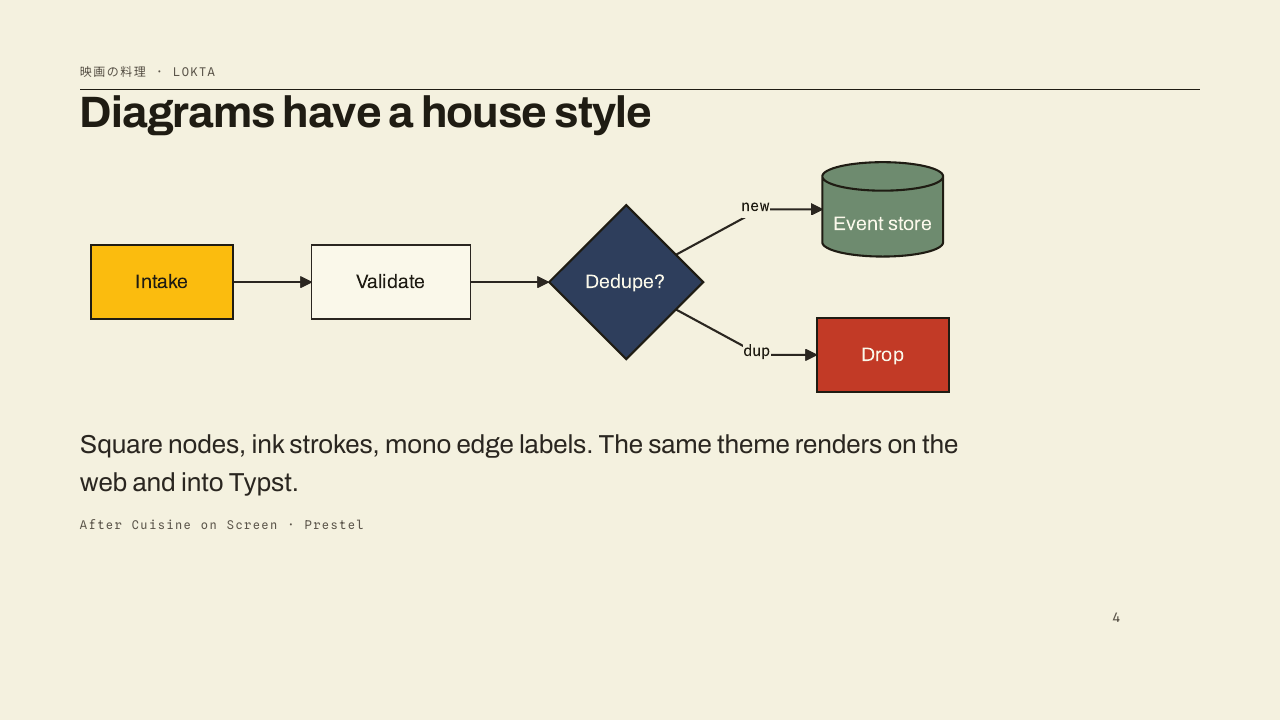
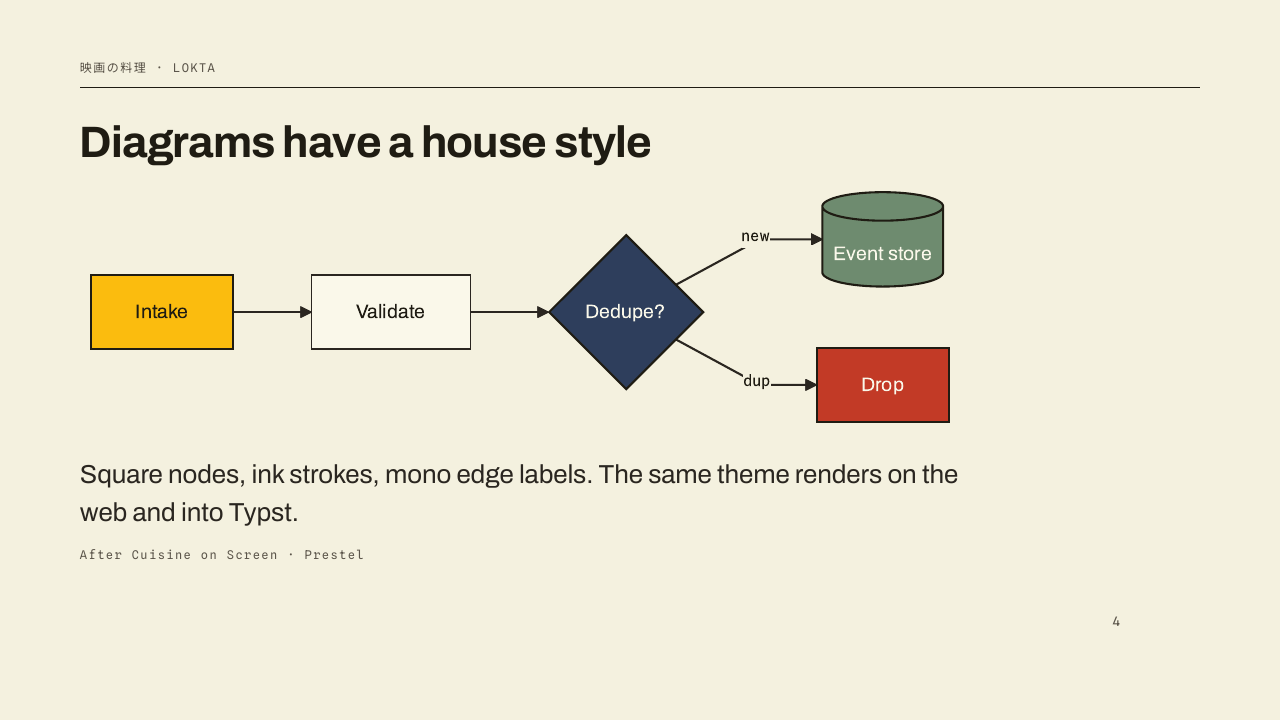
Marp theme: all four stocks, full pigment grounds, font dials, title spacing
Sync the workspace Marp theme with lokta-marp: paper/ink/bone/indigo
stocks and the marigold/peach/lavender/aubergine/cinnabar/celadon/night
grounds as slide classes, overridable font and colour variables, and a
clear gap between the running head and the slide title.

diff --git a/packages/marp-theme/lokta.marp.css b/packages/marp-theme/lokta.marp.css
@@ -1,12 +1,21 @@
 /* @theme lokta
- * Lokta. Paper on Screen. A Marp theme drawn from the Lokta design system.
- * Light (default), .invert (Ink dark stock), .marigold and .peach feature grounds.
- * Usage in a deck:  ---  marp: true  theme: lokta  ---
+ * Lokta. A Marp theme drawn from the Lokta design system.
+ *
+ * Per-slide classes (`<!-- _class: NAME -->` or `class:` in front matter):
+ *   Stocks:   (default = paper) · invert / ink · bone · indigo
+ *   Grounds:  marigold · peach · lavender · aubergine · cinnabar · celadon · night
+ *   Layout:   lead (cover slide)
+ *
+ * Dials (override with the `style:` directive):
+ *   Fonts:  --display · --mono · --serif
+ *   Colors: --paper-00..04 · --ink-40..100 · --marigold · --peach · --lavender
+ *           --aubergine · --cinnabar · --celadon · --indigo · --night
  *
  * Fonts are self-hosted (SIL OFL): no Google Fonts CDN, which would send viewer
  * IPs to Google (a GDPR exposure in the EU). The woff2 files live in ./fonts and
  * resolve relative to the rendered HTML, so render with the fonts alongside the
- * output (the repo's build does this). Run `npm run fonts` to vendor them.
+ * output (the repo's build does this). For a standalone, engine-embedded version
+ * see github.com/msradam/lokta-marp.
  */
 @font-face { font-family: "Archivo"; font-weight: 400; font-display: swap; src: url("fonts/archivo-latin-400-normal.woff2") format("woff2"); }
 @font-face { font-family: "Archivo"; font-weight: 500; font-display: swap; src: url("fonts/archivo-latin-500-normal.woff2") format("woff2"); }
@@ -17,19 +26,23 @@
 @font-face { font-family: "Spline Sans Mono"; font-weight: 600; font-display: swap; src: url("fonts/spline-sans-mono-latin-600-normal.woff2") format("woff2"); }
 @font-face { font-family: "Source Serif 4"; font-style: italic; font-weight: 400; font-display: swap; src: url("fonts/source-serif-4-latin-400-italic.woff2") format("woff2"); }
 @font-face { font-family: "Source Serif 4"; font-style: italic; font-weight: 500; font-display: swap; src: url("fonts/source-serif-4-latin-500-italic.woff2") format("woff2"); }
-@font-face { font-family: "Noto Sans JP"; font-weight: 700; font-display: swap; src: url("fonts/noto-sans-jp-japanese-400-normal.woff2") format("woff2"); }
+@font-face { font-family: "Noto Sans JP"; font-weight: 400; font-display: swap; src: url("fonts/noto-sans-jp-japanese-400-normal.woff2") format("woff2"); }
 
 :root {
   --paper-00: #FAF8EA; --paper-01: #F4F1DF; --paper-02: #EAE6D2; --paper-04: #C2B89C;
+  --bone: #EFEEE7;
   --ink-100: #16140E; --ink-90: #1F1C13; --ink-80: #2A2620; --ink-60: #5C564B; --ink-50: #6E665A; --ink-40: #8E867A;
-  --marigold: #FBBC0E; --peach: #E7A079; --cinnabar: #C23A26; --celadon-ink: #4F6B50; --aubergine: #6B4E8E; --night: #070D0E;
-  --mono: "Spline Sans Mono", ui-monospace, monospace;
+  --marigold: #FBBC0E; --peach: #E7A079; --lavender: #A99CB3; --aubergine: #6B4E8E;
+  --cinnabar: #C23A26; --celadon: #6E8B6F; --indigo: #2E3E5C; --night: #070D0E;
+  --indigo-page: #1B2230; --indigo-text: #E2E1D6; --indigo-head: #EDECE3; --indigo-mut: #AEB4C2;
+  --mono: "Spline Sans Mono", "Noto Sans JP", ui-monospace, monospace;
   --display: "Archivo", "Helvetica Neue", "Noto Sans JP", sans-serif;
+  --serif: "Source Serif 4", Georgia, serif;
 }
 
 section {
   width: 1280px; height: 720px;
-  padding: 64px 80px;
+  padding: 60px 80px;
   background: var(--paper-01);
   color: var(--ink-80);
   font-family: var(--display);
@@ -44,7 +57,7 @@ h2 { font-size: 44px; font-weight: 700; letter-spacing: -0.02em; line-height: 1.
 h3 { font-size: 24px; font-weight: 700; color: var(--ink-90); margin: 0 0 8px; }
 p  { text-wrap: pretty; margin: 0 0 14px; max-width: 60ch; }
 strong { font-weight: 700; color: var(--ink-90); }
-em { font-family: "Source Serif 4", Georgia, serif; }
+em { font-family: var(--serif); }
 a { color: var(--aubergine); text-decoration: underline; text-underline-offset: 3px; }
 ul, ol { max-width: 60ch; }
 li { margin: 0 0 8px; }
@@ -52,13 +65,13 @@ li::marker { color: var(--ink-40); }
 code { font-family: var(--mono); font-size: 0.86em; background: var(--paper-02); border: 1px solid var(--paper-04); padding: 1px 5px; }
 pre { background: var(--ink-90); color: var(--paper-00); padding: 20px 22px; font-family: var(--mono); font-size: 18px; line-height: 1.6; }
 pre code { background: none; border: none; color: inherit; padding: 0; }
-blockquote { font-family: "Source Serif 4", Georgia, serif; font-style: italic; font-size: 30px; line-height: 1.35; color: var(--ink-90); border-left: 2px solid var(--marigold); padding-left: 20px; margin: 0 0 16px; }
+blockquote { font-family: var(--serif); font-style: italic; font-size: 30px; line-height: 1.35; color: var(--ink-90); border-left: 2px solid var(--marigold); padding-left: 20px; margin: 0 0 16px; }
 table { border-collapse: collapse; font-size: 20px; }
 th { font-family: var(--mono); font-size: 12px; text-transform: uppercase; letter-spacing: 0.1em; color: var(--ink-60); text-align: left; border-bottom: 2px solid var(--ink-90); padding: 8px 14px; }
 td { border-bottom: 1px solid var(--paper-04); padding: 8px 14px; }
 
 /* Running head + colophon (Marp header/footer) */
-header { font-family: var(--mono); font-size: 12px; text-transform: uppercase; letter-spacing: 0.12em; color: var(--ink-60); top: 28px; left: 80px; right: 80px; border-bottom: 1px solid var(--ink-90); padding-bottom: 8px; }
+header { font-family: var(--mono); font-size: 12px; text-transform: uppercase; letter-spacing: 0.12em; color: var(--ink-60); left: 80px; right: 80px; border-bottom: 1px solid var(--ink-90); padding-bottom: 10px; margin-bottom: 32px; }
 footer { font-family: var(--mono); font-size: 12px; letter-spacing: 0.12em; color: var(--ink-60); bottom: 28px; left: 80px; }
 section::after { /* page number, bottom-right */ font-family: var(--mono); font-size: 13px; color: var(--ink-60); right: 80px; bottom: 28px; }
 
@@ -72,30 +85,71 @@ hr { border: 0; height: 8px; margin: 18px 0; background-image: repeating-linear-
 section.lead { display: flex; flex-direction: column; justify-content: center; }
 section.lead h1 { font-size: 104px; letter-spacing: -0.045em; }
 
-/* INK dark stock */
-section.invert { background: var(--ink-90); color: var(--paper-01); }
-section.invert h1, section.invert h2, section.invert h3, section.invert strong { color: var(--paper-00); }
-section.invert header, section.invert footer, section.invert::after { color: var(--paper-04); border-color: var(--paper-04); }
-section.invert code { background: var(--ink-100); border-color: var(--ink-60); color: var(--paper-00); }
-section.invert a { color: #A98FC9; }
-section.invert hr { background-image: repeating-linear-gradient(-45deg, var(--paper-04) 0, var(--paper-04) 1px, transparent 1px, transparent 4px); }
+/* ════ STOCKS ═══════════════════════════════════════════════════════════════
+ * Four stocks re-point the whole slide. paper is the default. */
 
-/* MARIGOLD feature ground (always dark text) */
-section.marigold { background: var(--marigold); color: var(--ink-90); }
-section.marigold h1, section.marigold h2, section.marigold h3, section.marigold strong { color: var(--ink-90); }
-section.marigold header, section.marigold footer, section.marigold::after { color: rgba(7,13,14,0.7); border-color: rgba(7,13,14,0.4); }
+/* BONE (cool light stock) */
+section.bone { background: var(--bone); }
 
-/* PEACH heritage ground */
-section.peach { background: var(--peach); color: var(--ink-90); }
-section.peach h1, section.peach h2, section.peach strong { color: var(--ink-90); }
+/* ── Dark grounds: light text. Stocks (ink, indigo) and dark pigment grounds. */
+section.invert, section.ink, section.indigo,
+section.aubergine, section.cinnabar, section.celadon, section.night {
+  color: var(--paper-01);
+}
+section.invert h1, section.invert h2, section.invert h3, section.invert strong,
+section.ink h1, section.ink h2, section.ink h3, section.ink strong,
+section.indigo h1, section.indigo h2, section.indigo h3, section.indigo strong,
+section.aubergine h1, section.aubergine h2, section.aubergine h3, section.aubergine strong,
+section.cinnabar h1, section.cinnabar h2, section.cinnabar h3, section.cinnabar strong,
+section.celadon h1, section.celadon h2, section.celadon h3, section.celadon strong,
+section.night h1, section.night h2, section.night h3, section.night strong { color: var(--paper-00); }
+section.invert header, section.invert footer, section.invert::after,
+section.ink header, section.ink footer, section.ink::after,
+section.indigo header, section.indigo footer, section.indigo::after,
+section.aubergine header, section.aubergine footer, section.aubergine::after,
+section.cinnabar header, section.cinnabar footer, section.cinnabar::after,
+section.celadon header, section.celadon footer, section.celadon::after,
+section.night header, section.night footer, section.night::after { color: var(--paper-04); border-color: var(--paper-04); }
+section.invert code, section.ink code, section.indigo code, section.aubergine code,
+section.cinnabar code, section.celadon code, section.night code { background: rgba(0,0,0,0.28); border-color: rgba(255,255,255,0.3); color: var(--paper-00); }
+section.invert a, section.ink a, section.indigo a, section.aubergine a,
+section.cinnabar a, section.celadon a, section.night a { color: #C9B8DC; }
+section.invert hr, section.ink hr, section.indigo hr, section.aubergine hr,
+section.cinnabar hr, section.celadon hr, section.night hr {
+  background-image: repeating-linear-gradient(-45deg, var(--paper-04) 0, var(--paper-04) 1px, transparent 1px, transparent 4px); }
+
+/* INK (warm dark stock) */
+section.invert, section.ink { background: var(--ink-90); }
+section.invert code, section.ink code { background: var(--ink-100); border-color: var(--ink-60); }
+/* INDIGO (cool dark stock) */
+section.indigo { background: var(--indigo-page); color: var(--indigo-text); }
+section.indigo h1, section.indigo h2, section.indigo h3, section.indigo strong { color: var(--indigo-head); }
+
+/* ════ PIGMENT GROUNDS (full-bleed feature slides) ══════════════════════════ */
+
+/* Dark-text grounds */
+section.marigold { background: var(--marigold); }
+section.peach { background: var(--peach); }
+section.lavender { background: var(--lavender); }
+section.marigold, section.peach, section.lavender { color: var(--ink-90); }
+section.marigold h1, section.marigold h2, section.marigold h3, section.marigold strong,
+section.peach h1, section.peach h2, section.peach h3, section.peach strong,
+section.lavender h1, section.lavender h2, section.lavender h3, section.lavender strong { color: var(--ink-90); }
+section.marigold header, section.marigold footer, section.marigold::after,
+section.peach header, section.peach footer, section.peach::after,
+section.lavender header, section.lavender footer, section.lavender::after { color: rgba(7,13,14,0.7); border-color: rgba(7,13,14,0.4); }
+
+/* Light-text grounds (backgrounds set here; text handled by the dark-grounds rule above) */
+section.aubergine { background: var(--aubergine); }
+section.cinnabar { background: var(--cinnabar); }
+section.celadon { background: var(--celadon); }
+section.night { background: var(--night); }
 
 /* ── MERMAID (opinionated Lokta diagrams) ──────────────────────────────────
- * Render decks with: marp deck.md --theme lokta.marp.css (mermaid enabled).
- * Pass lokta-mermaid.json to mermaid.initialize(); these rules force hard edges
- * and the mono edge labels the themeVariables can't reach. */
+ * The theme carries these so live ```mermaid fences (via a Marp engine) or
+ * pre-rendered SVGs both get hard edges and mono edge labels. */
 .mermaid .node rect, .mermaid .node polygon, .mermaid .cluster rect,
 .mermaid rect.actor, .mermaid .labelBox, .mermaid .note { rx: 0 !important; ry: 0 !important; }
-.mermaid .nodeLabel, .mermaid .actor, .mermaid .stateLabel { font-family: "Archivo", sans-serif !important; font-weight: 600; }
 .mermaid .edgeLabel, .mermaid .edgeLabel *, .mermaid .messageText, .mermaid .noteText {
   font-family: "Spline Sans Mono", monospace !important; font-size: 11px !important; }
 .mermaid .edgeLabel { background: var(--paper-01) !important; }
